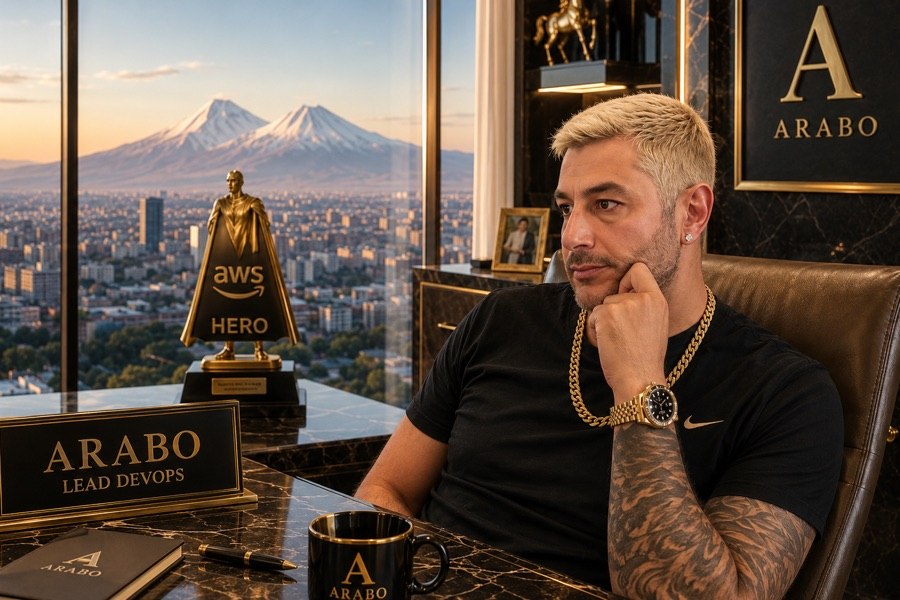
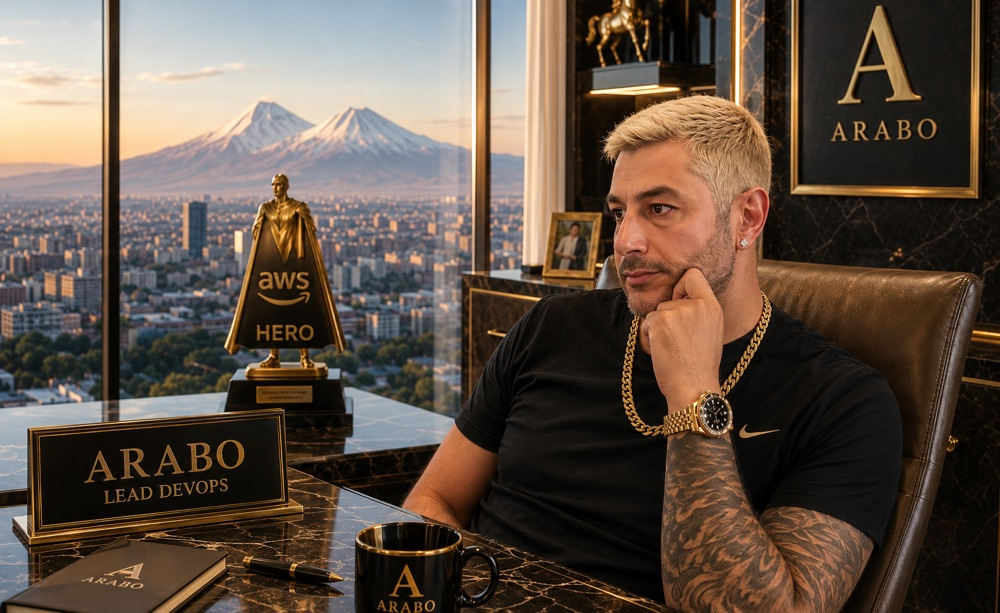
Show second Fun photo uncropped instead of cover-cropped
Regenerates fun2 from the original uncropped source and displays it
with object-fit: contain so nothing gets cut off, letterboxed within
the same card size as the first photo. Also fixes an aspect-ratio bug
where the box size wasn't being applied consistently on the <img>
itself; moved the fixed 3:2 box to the <picture> wrapper instead.

diff --git a/index.html b/index.html
@@ -231,9 +231,12 @@ h1{font-size:clamp(2.6rem,5.5vw,5.2rem);font-weight:800;line-height:1.05;letter-
 .fun-grid{display:grid;grid-template-columns:repeat(auto-fit,minmax(320px,1fr));gap:20px;margin-bottom:20px}
 .fun-card{background:var(--card);border:1px solid var(--border);border-radius:var(--r);overflow:hidden;transition:border-color .25s,transform .25s,box-shadow .25s}
 .fun-card:hover{border-color:var(--border-h);transform:translateY(-5px);box-shadow:0 20px 48px rgba(0,0,0,.35)}
-.fun-card picture{display:block;overflow:hidden}
-.fun-card img{width:100%;aspect-ratio:3/2;object-fit:cover;display:block;transition:transform .5s var(--ease)}
+.fun-card picture{display:block;overflow:hidden;aspect-ratio:3/2}
+.fun-card img{width:100%;height:100%;object-fit:cover;display:block;transition:transform .5s var(--ease)}
 .fun-card:hover img{transform:scale(1.1)}
+.fun-card--contain picture{background:var(--card-h)}
+.fun-card--contain img{object-fit:contain}
+.fun-card--contain:hover img{transform:scale(1.04)}
 .fun-card figcaption{padding:16px 18px;font-size:.9rem;color:var(--text-sub);font-style:italic}
 .fun-credit{font-family:var(--mono);font-size:.72rem;color:var(--text-muted);letter-spacing:.04em}
 
@@ -631,10 +634,10 @@ footer{background:var(--bg2);border-top:1px solid var(--border);padding:28px 0}
         </picture>
         <figcaption>According to Njegos, this is what a zero-downtime Friday deploy earns you.</figcaption>
       </figure>
-      <figure class="fun-card">
+      <figure class="fun-card fun-card--contain">
         <picture>
           <source srcset="fun2.webp" type="image/webp">
-          <img src="fun2.jpg" alt="AI-generated portrait of Arabo as a tycoon with an AWS Hero trophy" width="900" height="600" loading="lazy">
+          <img src="fun2.jpg" alt="AI-generated portrait of Arabo as a tycoon with an AWS Hero trophy" width="1000" height="613" loading="lazy">
         </picture>
         <figcaption>Njegos's rendering of my next 1:1 with leadership.</figcaption>
       </figure>
